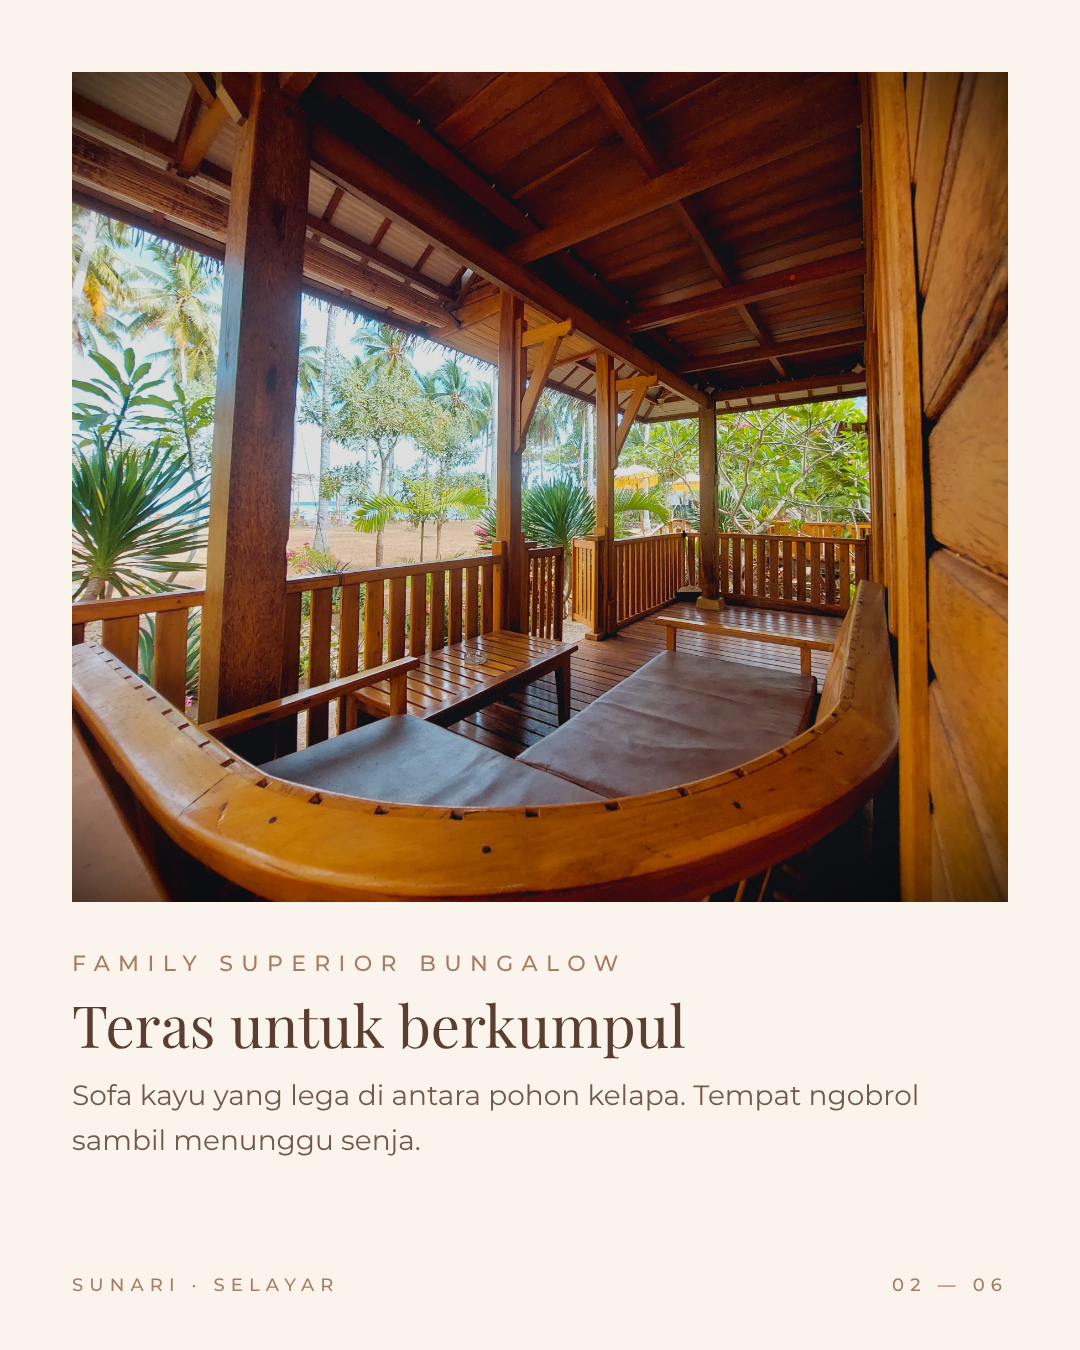
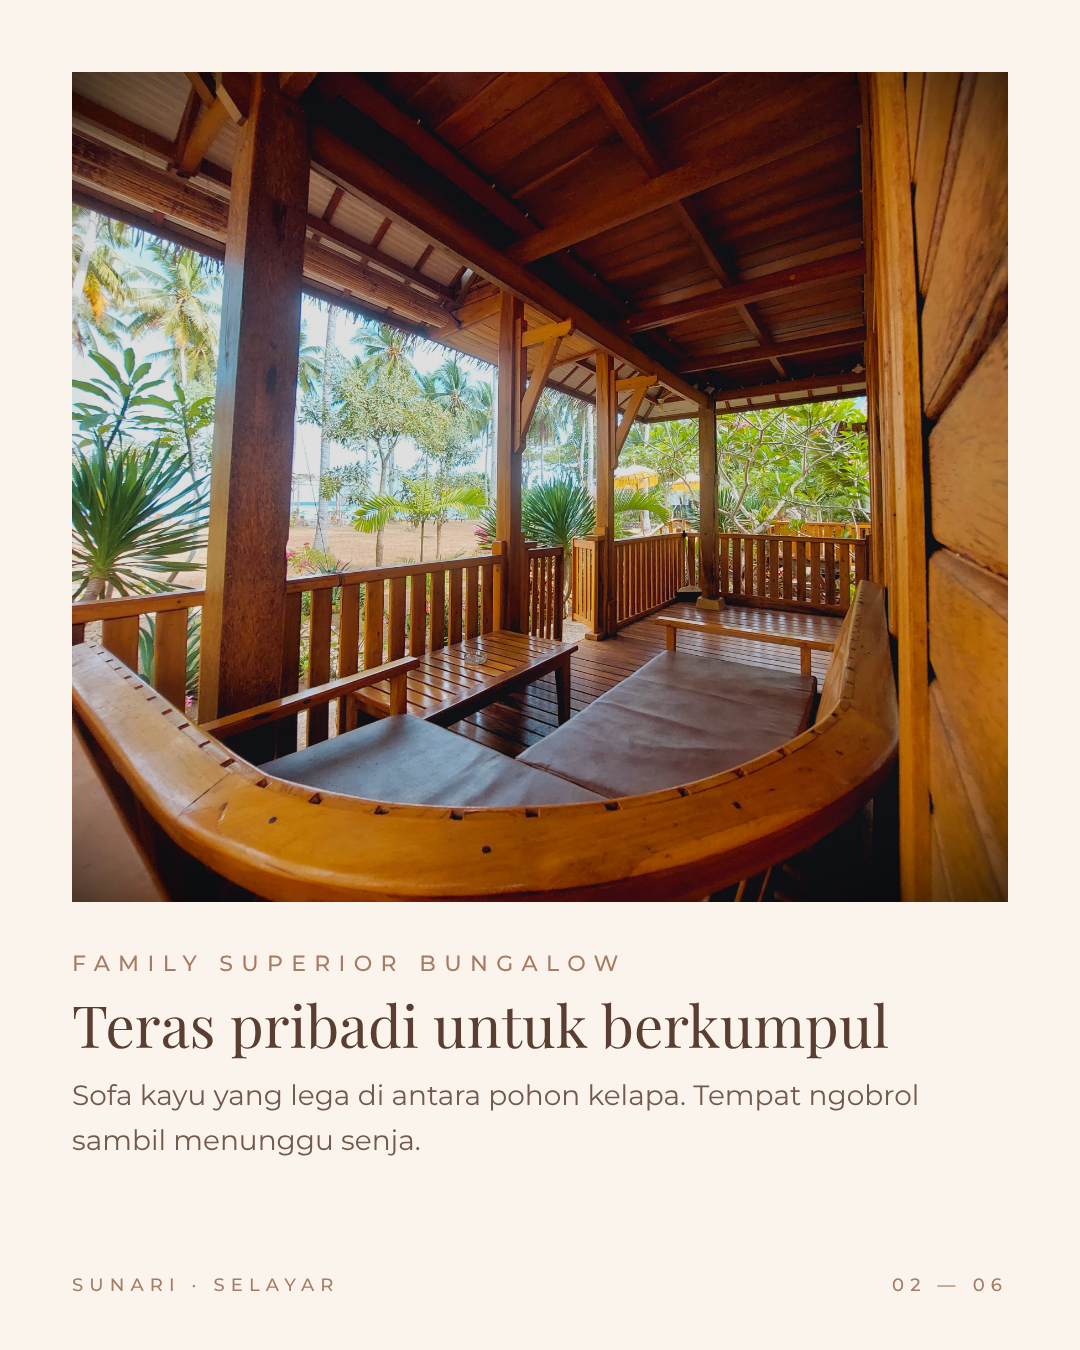
Add Family Superior capacity and private terrace
Claude-Session: https://claude.ai/code/session_01AizaiBQtsTmWERPRfEgVV4

Changed region(s): [[0.2139, 0.7467, 0.825, 0.7778]]

diff --git a/social/kit.html b/social/kit.html
@@ -230,7 +230,7 @@ body{background:#ddd6cc;font-family:Montserrat,sans-serif;padding:40px;display:f
 </div>
 <div class="tpl" id="fs-2">
   <img class="ph" src="../assets/photos/family-superior-bungalow/03-teras-sofa.jpg" style="object-position:50% 55%" alt="">
-  <div class="txt"><div class="caps">Family Superior Bungalow</div><h2>Teras untuk berkumpul</h2><p>Sofa kayu yang lega di antara pohon kelapa. Tempat ngobrol sambil menunggu senja.</p></div>
+  <div class="txt"><div class="caps">Family Superior Bungalow</div><h2>Teras pribadi untuk berkumpul</h2><p>Sofa kayu yang lega di antara pohon kelapa. Tempat ngobrol sambil menunggu senja.</p></div>
   <div class="foot"><span class="caps">SunaRi · Selayar</span><span class="caps">02 — 06</span></div>
 </div>
 <div class="tpl" id="fs-3">
@@ -251,7 +251,7 @@ body{background:#ddd6cc;font-family:Montserrat,sans-serif;padding:40px;display:f
 <div class="tpl facts" id="fs-6">
   <img class="mark" src="../assets/mark-sunari-driftwood.svg" alt="">
   <div class="head center"><div class="caps">Family Superior Bungalow</div><h2>Yang kamu <span class="it">dapatkan</span></h2></div>
-  <ul><li>Bungalow dua lantai di tengah taman</li><li>Kamar bawah dengan tempat tidur besar</li><li>Lantai atas dengan empat kasur</li><li>Teras luas dengan sofa kayu</li><li>AC, kopi &amp; teh, kamar mandi dalam</li></ul>
+  <ul><li>Untuk 6 orang, maks. 8 dengan 2 extra bed</li><li>Bungalow dua lantai di tengah taman</li><li>Kamar bawah + lantai atas dengan empat kasur</li><li>Teras pribadi luas dengan sofa kayu</li><li>AC, kopi &amp; teh, kamar mandi dalam</li></ul>
   <div class="cta"><div class="caps">Info &amp; Reservasi</div><div class="wa"><span>WhatsApp</span> 0821-8903-3044</div></div>
   <div class="foot"><span class="caps">SunaRi · Selayar</span><span class="caps">06 — 06</span></div>
 </div>

diff --git a/social/build_kit.py b/social/build_kit.py
@@ -31,11 +31,11 @@ ROOMS = [
        facts=["Bungalow A-frame dengan loteng","Teras kayu pribadi","Bathtub & rain shower semi-outdoor, atap kaca","AC, TV, kulkas mini, kopi & teh","Wastafel kayu & toilet duduk"]),
   dict(prefix="fs", name="Family Superior Bungalow", photos="family-superior-bungalow",
        tagline="Satu rumah, dua lantai, semua bersama", cover="01-eksterior-taman.jpg", cover_pos="55% 50%",
-       slides=[("03-teras-sofa.jpg","50% 55%","Teras untuk berkumpul","Sofa kayu yang lega di antara pohon kelapa. Tempat ngobrol sambil menunggu senja."),
+       slides=[("03-teras-sofa.jpg","50% 55%","Teras pribadi untuk berkumpul","Sofa kayu yang lega di antara pohon kelapa. Tempat ngobrol sambil menunggu senja."),
                ("06-kamar-bawah-sudut.jpg","50% 50%","Kamar utama di lantai bawah","Tempat tidur besar, sandaran kayu, dan meja kopi & teh di sudut kamar."),
                ("09-lantai-atas-4-kasur.jpg","50% 50%","Lantai atas untuk anak-anak","Ruang luas di bawah atap kayu tinggi, dengan empat kasur berjajar."),
                ("12-kamar-mandi-shower.jpg","50% 50%","Kamar mandi yang lapang","Shower, toilet duduk, dan area wastafel terpisah.")],
-       facts=["Bungalow dua lantai di tengah taman","Kamar bawah dengan tempat tidur besar","Lantai atas dengan empat kasur","Teras luas dengan sofa kayu","AC, kopi & teh, kamar mandi dalam"]),
+       facts=["Untuk 6 orang, maks. 8 dengan 2 extra bed","Bungalow dua lantai di tengah taman","Kamar bawah + lantai atas dengan empat kasur","Teras pribadi luas dengan sofa kayu","AC, kopi & teh, kamar mandi dalam"]),
   dict(prefix="vp", name="VIP Standard Bungalow", photos="vip-standard-bungalow",
        tagline="Turun tangga, langsung pasir", cover="02-teras-view-pantai.jpg", cover_pos="50% 60%",
        slides=[("01-eksterior-rumah-panggung.jpg","50% 45%","Rumah panggung beratap rumbia","Berdiri di tepi pantai, dinaungi pohon kelapa, dengan atap lengkung tradisional."),

diff --git a/brand/BRAND_GUIDE.md b/brand/BRAND_GUIDE.md
@@ -198,7 +198,7 @@ Acuan gaya: `brand/style-reference.jpg` (hanya gaya visual, bukan isi/merek). Pe
   dengan loteng, teras kayu pribadi, jendela segitiga, AC, TV, kulkas mini, perlengkapan kopi/teh, serta kamar mandi
   semi-outdoor beratap kaca dengan **bathtub** & rain shower. Kata kunci promosi: *berendam di bawah langit terbuka*.
 - **Family Superior Bungalow** *(foto asli: `assets/photos/family-superior-bungalow/`)*: bungalow kayu dua lantai di tengah
-  taman, dengan jembatan kayu dan payung kuning di depannya. Teras luas dengan sofa kayu. Lantai bawah: kamar dengan tempat tidur besar,
+  taman, dengan jembatan kayu dan payung kuning di depannya. **Kapasitas 6 orang, maksimal 8 dengan 2 extra bed.** Teras pribadi luas dengan sofa kayu. Lantai bawah: kamar dengan tempat tidur besar,
   AC, kopi & teh. Lantai atas: ruang luas di bawah atap kayu tinggi dengan **empat kasur**, AC, dan meja. Kamar mandi dalam
   dengan shower, toilet duduk, dan wastafel terpisah. Kata kunci promosi: *satu rumah, dua lantai, semua bersama*.
 - **VIP Standard Bungalow** *(foto asli: `assets/photos/vip-standard-bungalow/`)*: rumah panggung beratap rumbia
